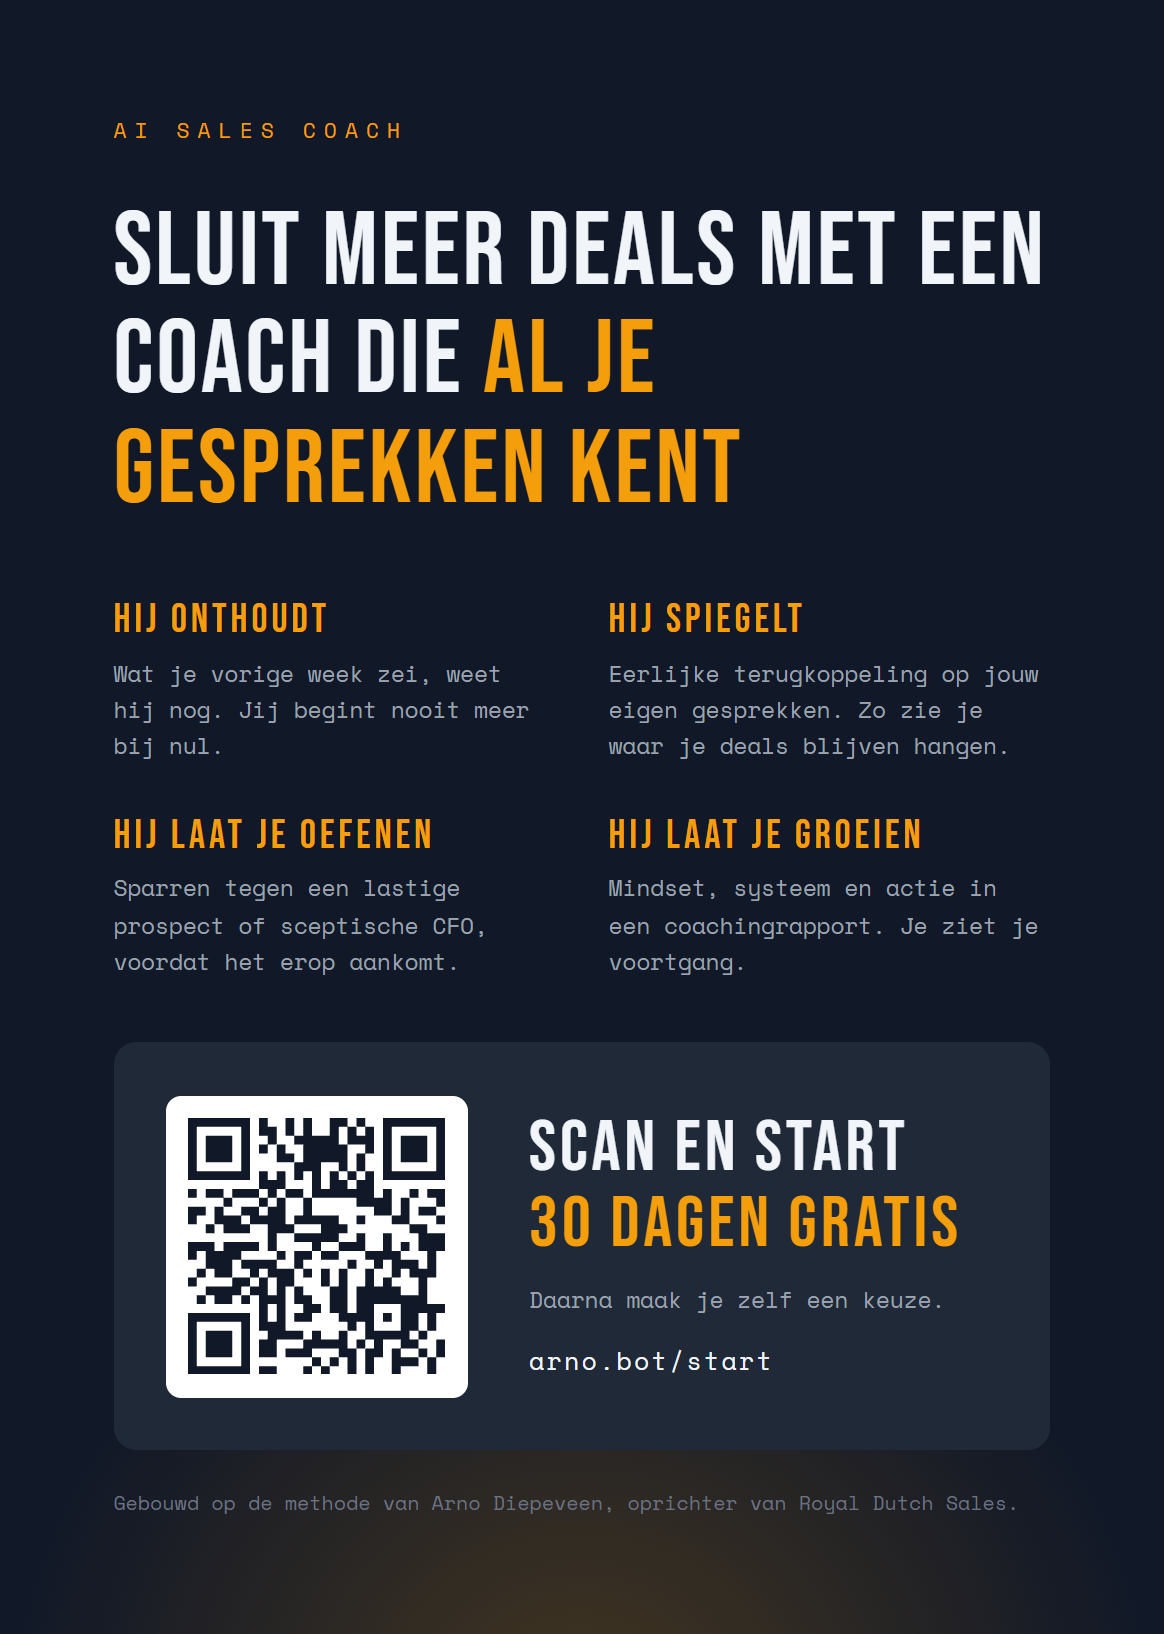
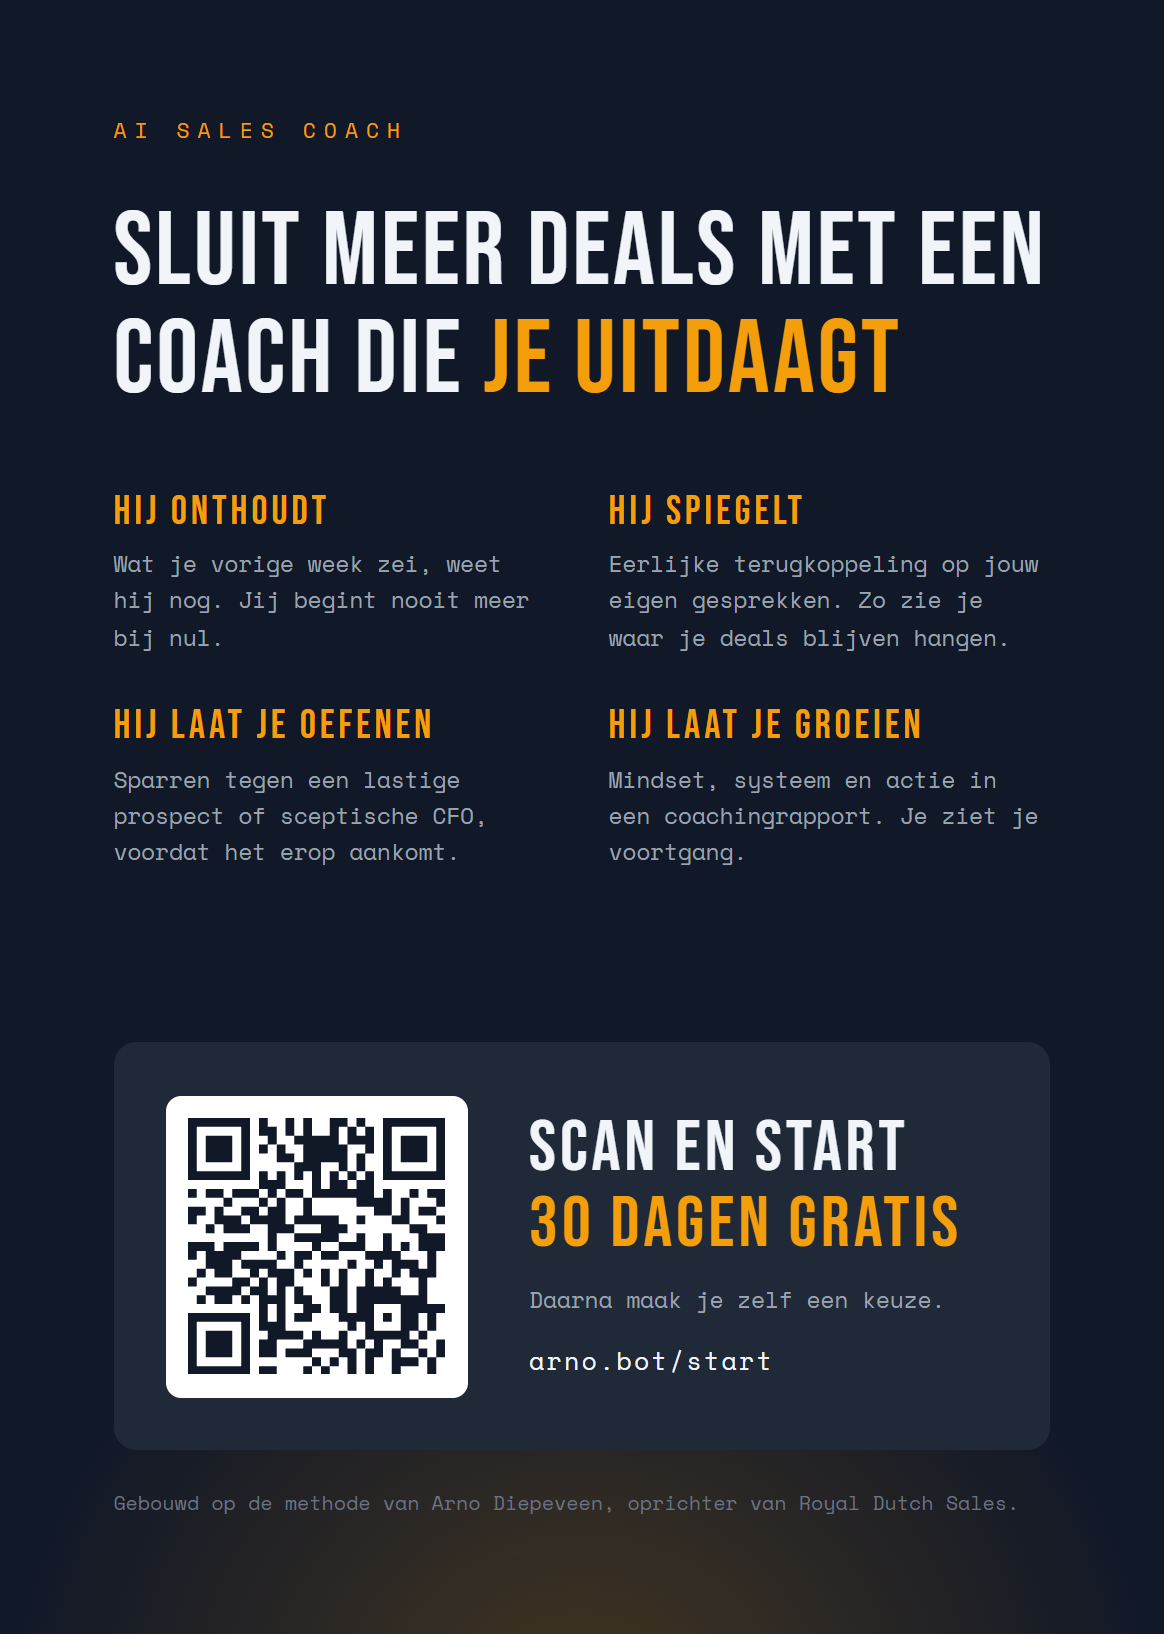
copy(folder,start): kop wordt Sluit meer deals met een coach die je uitdaagt
Voorkant van de folder behoudt "die je gesprekken kent" als slot, zodat voor en achter
elkaar aanvullen: kent en daagt uit.

Changed region(s): [[0.0928, 0.1873, 0.8969, 0.593]]

diff --git a/app/start/page.tsx b/app/start/page.tsx
@@ -14,7 +14,7 @@ import SignupCTA from '../components/SignupCTA'
 
 export const metadata: Metadata = {
   title: 'ArnoBot: 30 dagen gratis',
-  description: 'Sluit meer deals met een coach die al je gesprekken kent. Probeer ArnoBot 30 dagen gratis.',
+  description: 'Sluit meer deals met een coach die je uitdaagt. Probeer ArnoBot 30 dagen gratis.',
   // Alleen bedoeld voor wie de folder heeft, niet voor zoekmachines naast de hoofdpagina.
   robots: { index: false, follow: false },
 }
@@ -151,7 +151,7 @@ export default async function StartPage() {
         <div className="hero-inner">
           <div className="hero-copy">
             <p className="hero-eyebrow">AI SALES COACH</p>
-            <h1 className="hero-h1">Sluit meer deals met een coach die <span>al je gesprekken kent</span></h1>
+            <h1 className="hero-h1">Sluit meer deals met een coach die <span>je uitdaagt</span></h1>
             <p className="hero-sub">Probeer ArnoBot 30 dagen gratis. Daarna maak je zelf een keuze.</p>
             <SignupCTA className="hero-cta">30 dagen gratis</SignupCTA>
           </div>
